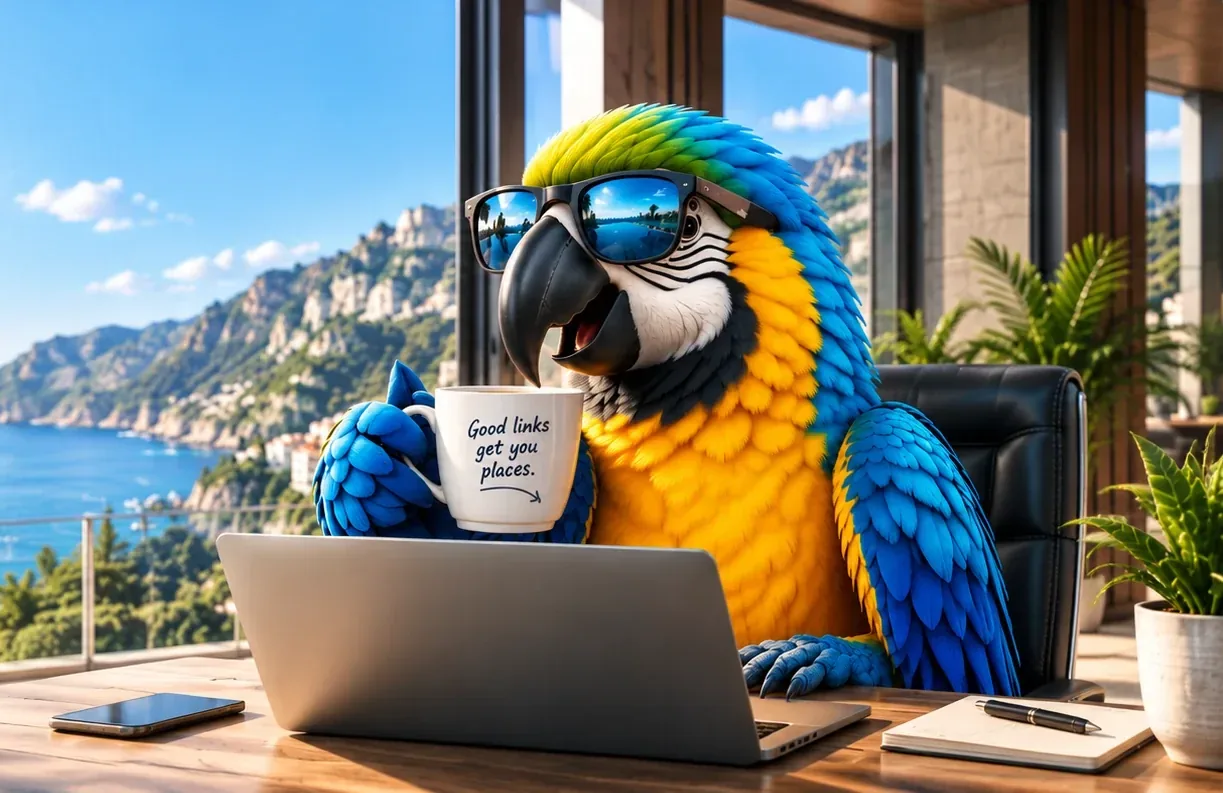
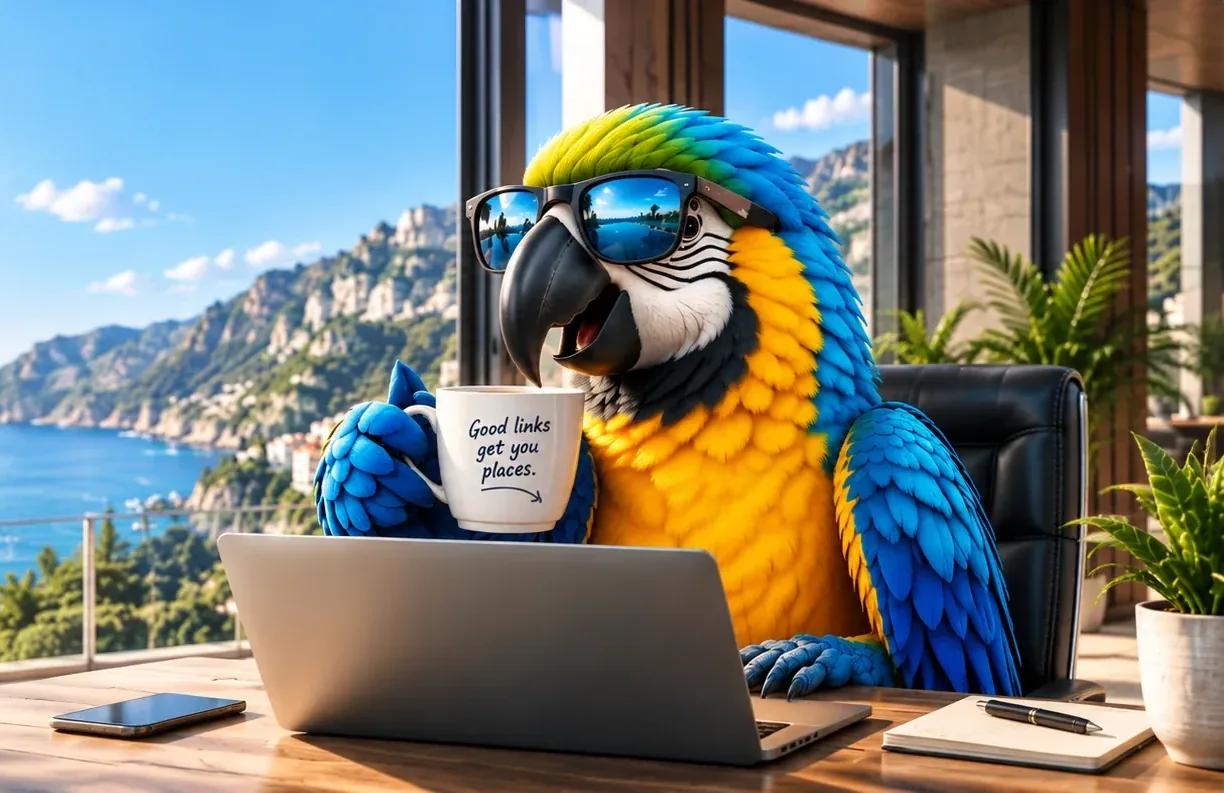
Make the photograph the background on narrow screens too
The band under the copy was wrong. The picture is meant to be behind the
text at every width, as it is on a desktop, and a band is the picture
sitting below the content instead.

The obstacle was never the position, it was the shape. The file is 2.5:1,
and once the frame is taller than it is wide there is no crop of it that
holds both the bird and somewhere to put a headline - moving the position
only changes which part is mangled. At 820px the earlier attempt put the
parrot sliced vertically by the viewport edge next to half a mug.

So the narrow one is composed rather than cropped. The scene sits in the
bottom third of a 9:16 frame and the two thirds above are its own sky,
continued upward: a gradient sampled from the blue inside the photograph,
with the photograph's top edge ramped to transparent over 300px so it
emerges from that sky rather than meeting it at a line. Its right-hand side
is a window frame rather than sky, and fading that in reads as haze, which
is the point - a hard join there would read as a collage.

The first attempt at the extension smeared the photograph's own top row
upward, one colour per column, on the theory that a column continuing its
own colour cannot seam. It cannot, and it turned the window frame into
brown vertical stripes up the whole frame. A sampled gradient has no detail
to streak.

9:16 because a phone then crops almost nothing and a tablet only trims sky
off the top, and it is anchored to the bottom at both, so what is lost is
[…]

diff --git a/src/components/home/hero-backdrop.tsx b/src/components/home/hero-backdrop.tsx
@@ -15,30 +15,35 @@ import Image from 'next/image';
  *
  * ## Why two files rather than one picture positioned twice
  *
- * The first attempt was one file covering the section at every width, held
- * at 22% on narrow screens and right on wide ones. It is right on a desktop
- * and it was wrong at 820px, which is the width that matters most for
- * getting this sort of thing wrong: the section there is taller than it is
- * wide, `cover` zooms the picture by several times to fill it, and what
- * landed was the parrot sliced vertically by the viewport edge, half a mug
- * and a chair. Shifting the position only moves which part is mangled.
+ * The first attempt was one file covering the section at every width. It is
+ * right on a desktop and it was wrong at 820px, which is the width worth
+ * checking: the section there is taller than it is wide, `cover` zooms the
+ * picture several times to fill it, and what landed was the parrot sliced
+ * vertically by the viewport edge next to half a mug. Shifting the position
+ * only moves which part is mangled, because the problem is the shape - a
+ * 2.5:1 photograph has no crop that holds both the bird and somewhere to
+ * put a headline once the frame is taller than it is wide.
  *
- * So below `lg` the picture stops being a background. It becomes a band
- * under the copy, cropped to the right-hand portion where the subject is,
- * shown whole at its own shape. Nothing is behind the headline, nothing is
- * cut, and the text sits on plain white where it is guaranteed readable.
+ * So the narrow one is not a crop. It is the same photograph with its own
+ * sky continued upward: the scene sits in the bottom third of a 9:16 frame,
+ * its top edge faded into a gradient sampled from the sky inside it, and the
+ * two thirds above are where the headline goes. Built from the wide file by
+ * `scripts/build-hero-art.mjs` rather than supplied separately, so there is
+ * one photograph and the rest is derived - re-run it and both follow.
+ *
+ * 9:16 because a phone is near enough that to crop almost nothing, and a
+ * tablet only trims sky off the top. Anchored to the bottom at both, so
+ * whatever is lost is empty sky and never the bird.
  */
 
 /** The full scene. Dropped in `public`, so a missing file never draws. */
 const WIDE = '/images/parrots/home-hero.webp';
 
 /**
- * The same photograph cropped to its right-hand portion - bird, laptop, mug
- * and enough coast to keep the setting. Generated from the file above rather
- * than supplied separately, so there is one photograph and two framings of
- * it.
+ * The same photograph recomposed for a frame taller than it is wide: the
+ * scene in the bottom third, its own sky continued above it.
  */
-const NARROW = '/images/parrots/home-hero-narrow.webp';
+const PORTRAIT = '/images/parrots/home-hero-portrait.webp';
 
 const exists = (file: string) => fs.existsSync(path.join(process.cwd(), 'public', file));
 
@@ -77,32 +82,30 @@ export function HeroBackdrop() {
 }
 
 /**
- * Tablet and phone: the same photograph as a band beneath the copy.
+ * Tablet and phone: the recomposed photograph, behind the text as on desktop.
  *
- * Not `priority`. On these widths the headline is the Largest Contentful
- * Paint and it sits above this, so fetching the picture first would delay
- * the thing being measured to deliver the thing below it.
+ * `object-bottom`, so every width keeps the bird and loses only sky.
  *
- * `sizes="100vw"` because it spans the viewport, and the intrinsic size is
- * declared so the browser reserves the right box before it loads - a band
- * that appears late and pushes the page down is the layout shift this
- * avoids.
+ * The scrim is heavier here and runs top to bottom rather than left to
+ * right, because at this width the copy is over the picture rather than
+ * beside it. It clears before the bottom third, so the scene itself is not
+ * washed out - what gets veiled is the sky the words are on.
  */
-export function HeroBand() {
-  if (!exists(NARROW)) return null;
+export function HeroBackdropNarrow() {
+  if (!exists(PORTRAIT)) return null;
 
   return (
-    <div aria-hidden="true" className="relative lg:hidden">
+    <div aria-hidden="true" className="pointer-events-none absolute inset-0 overflow-hidden lg:hidden">
       <Image
-        src={NARROW}
+        src={PORTRAIT}
         alt=""
-        width={1223}
-        height={793}
+        fill
+        priority
         sizes="100vw"
-        className="h-auto w-full"
+        className="object-cover object-bottom"
       />
-      {/* A short fade at the top, so the picture meets the copy rather than butting against it. */}
-      <div className="absolute inset-x-0 top-0 h-10 bg-gradient-to-b from-white to-transparent" />
+
+      <div className="absolute inset-0 bg-[linear-gradient(to_bottom,rgba(255,255,255,0.86)_0%,rgba(255,255,255,0.8)_42%,rgba(255,255,255,0.35)_62%,rgba(255,255,255,0)_74%)]" />
     </div>
   );
 }

diff --git a/src/components/home/hero.tsx b/src/components/home/hero.tsx
@@ -2,7 +2,7 @@ import Link from 'next/link';
 import { ArrowRight, Check } from 'lucide-react';
 import { Container } from '@/components/layout/container';
 import { Button } from '@/components/ui/button';
-import { HeroBackdrop, HeroBand } from './hero-backdrop';
+import { HeroBackdrop, HeroBackdropNarrow } from './hero-backdrop';
 import type { ContentAccessors } from '@/lib/cms/resolve';
 
 /**
@@ -42,8 +42,16 @@ export function Hero({ content }: { content: ContentAccessors }) {
   return (
     <section className="relative overflow-hidden border-b border-line bg-white">
       <HeroBackdrop />
+      <HeroBackdropNarrow />
 
-      <Container size="wide" className="relative py-14 lg:py-24">
+      {/*
+        The bottom padding is the bird. Below `lg` the copy is over the
+        photograph rather than beside it, and the scene occupies the
+        bottom third of that frame - so the ticks have to finish above it
+        or they sit on a laptop. On `lg` the two are side by side and it
+        goes back to ordinary spacing.
+      */}
+      <Container size="wide" className="relative pt-14 pb-[19rem] sm:pb-[22rem] md:pb-[27rem] lg:py-24">
         {/*
           The second column is empty on purpose. It is the space the bird
           occupies in the photograph: without it the copy would run the full
@@ -102,8 +110,6 @@ export function Hero({ content }: { content: ContentAccessors }) {
 
         </div>
       </Container>
-
-      <HeroBand />
     </section>
   );
 }

diff --git a/src/components/cms/sections/home.tsx b/src/components/cms/sections/home.tsx
@@ -1,6 +1,6 @@
 import Link from 'next/link';
 import Image from 'next/image';
-import { HeroBackdrop, HeroBand } from '@/components/home/hero-backdrop';
+import { HeroBackdrop, HeroBackdropNarrow } from '@/components/home/hero-backdrop';
 import {
   ArrowRight,
   BadgeCheck,
@@ -92,8 +92,16 @@ export function HomeHeroSection({ values }: SectionProps) {
   return (
     <section className="relative overflow-hidden border-b border-line bg-white">
       <HeroBackdrop />
+      <HeroBackdropNarrow />
 
-      <Container size="wide" className="relative py-14 lg:py-24">
+      {/*
+        The bottom padding is the bird. Below `lg` the copy is over the
+        photograph rather than beside it, and the scene occupies the
+        bottom third of that frame - so the ticks have to finish above it
+        or they sit on a laptop. On `lg` the two are side by side and it
+        goes back to ordinary spacing.
+      */}
+      <Container size="wide" className="relative pt-14 pb-[19rem] sm:pb-[22rem] md:pb-[27rem] lg:py-24">
         {/*
           The second column is empty on purpose: it is the space the bird
           occupies in the photograph. Without it the copy runs the full width
@@ -158,8 +166,6 @@ export function HomeHeroSection({ values }: SectionProps) {
 
         </div>
       </Container>
-
-      <HeroBand />
     </section>
   );
 }
